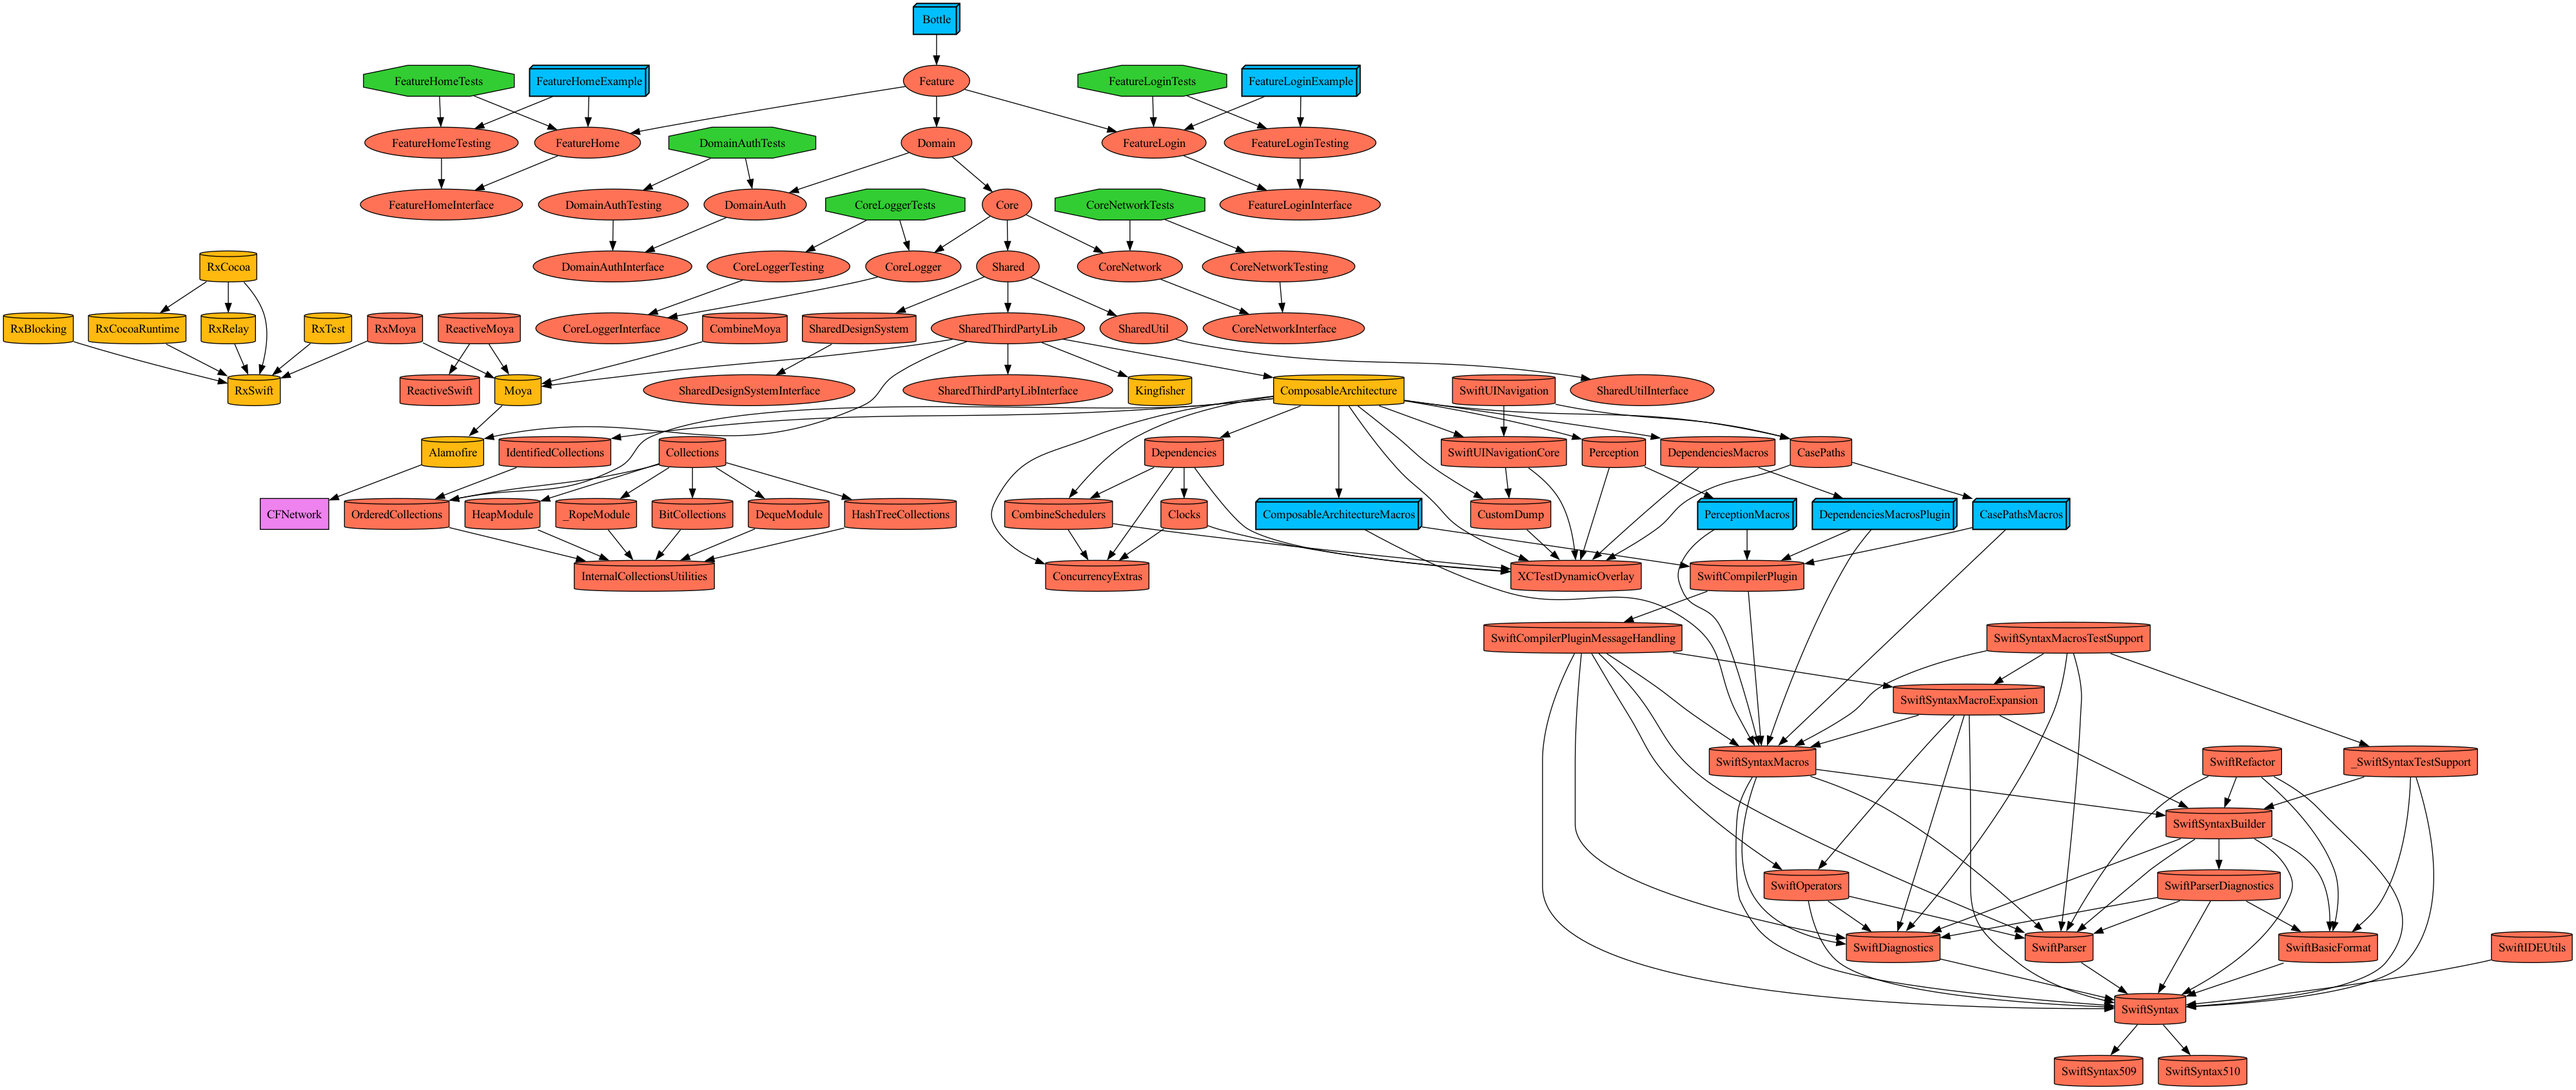
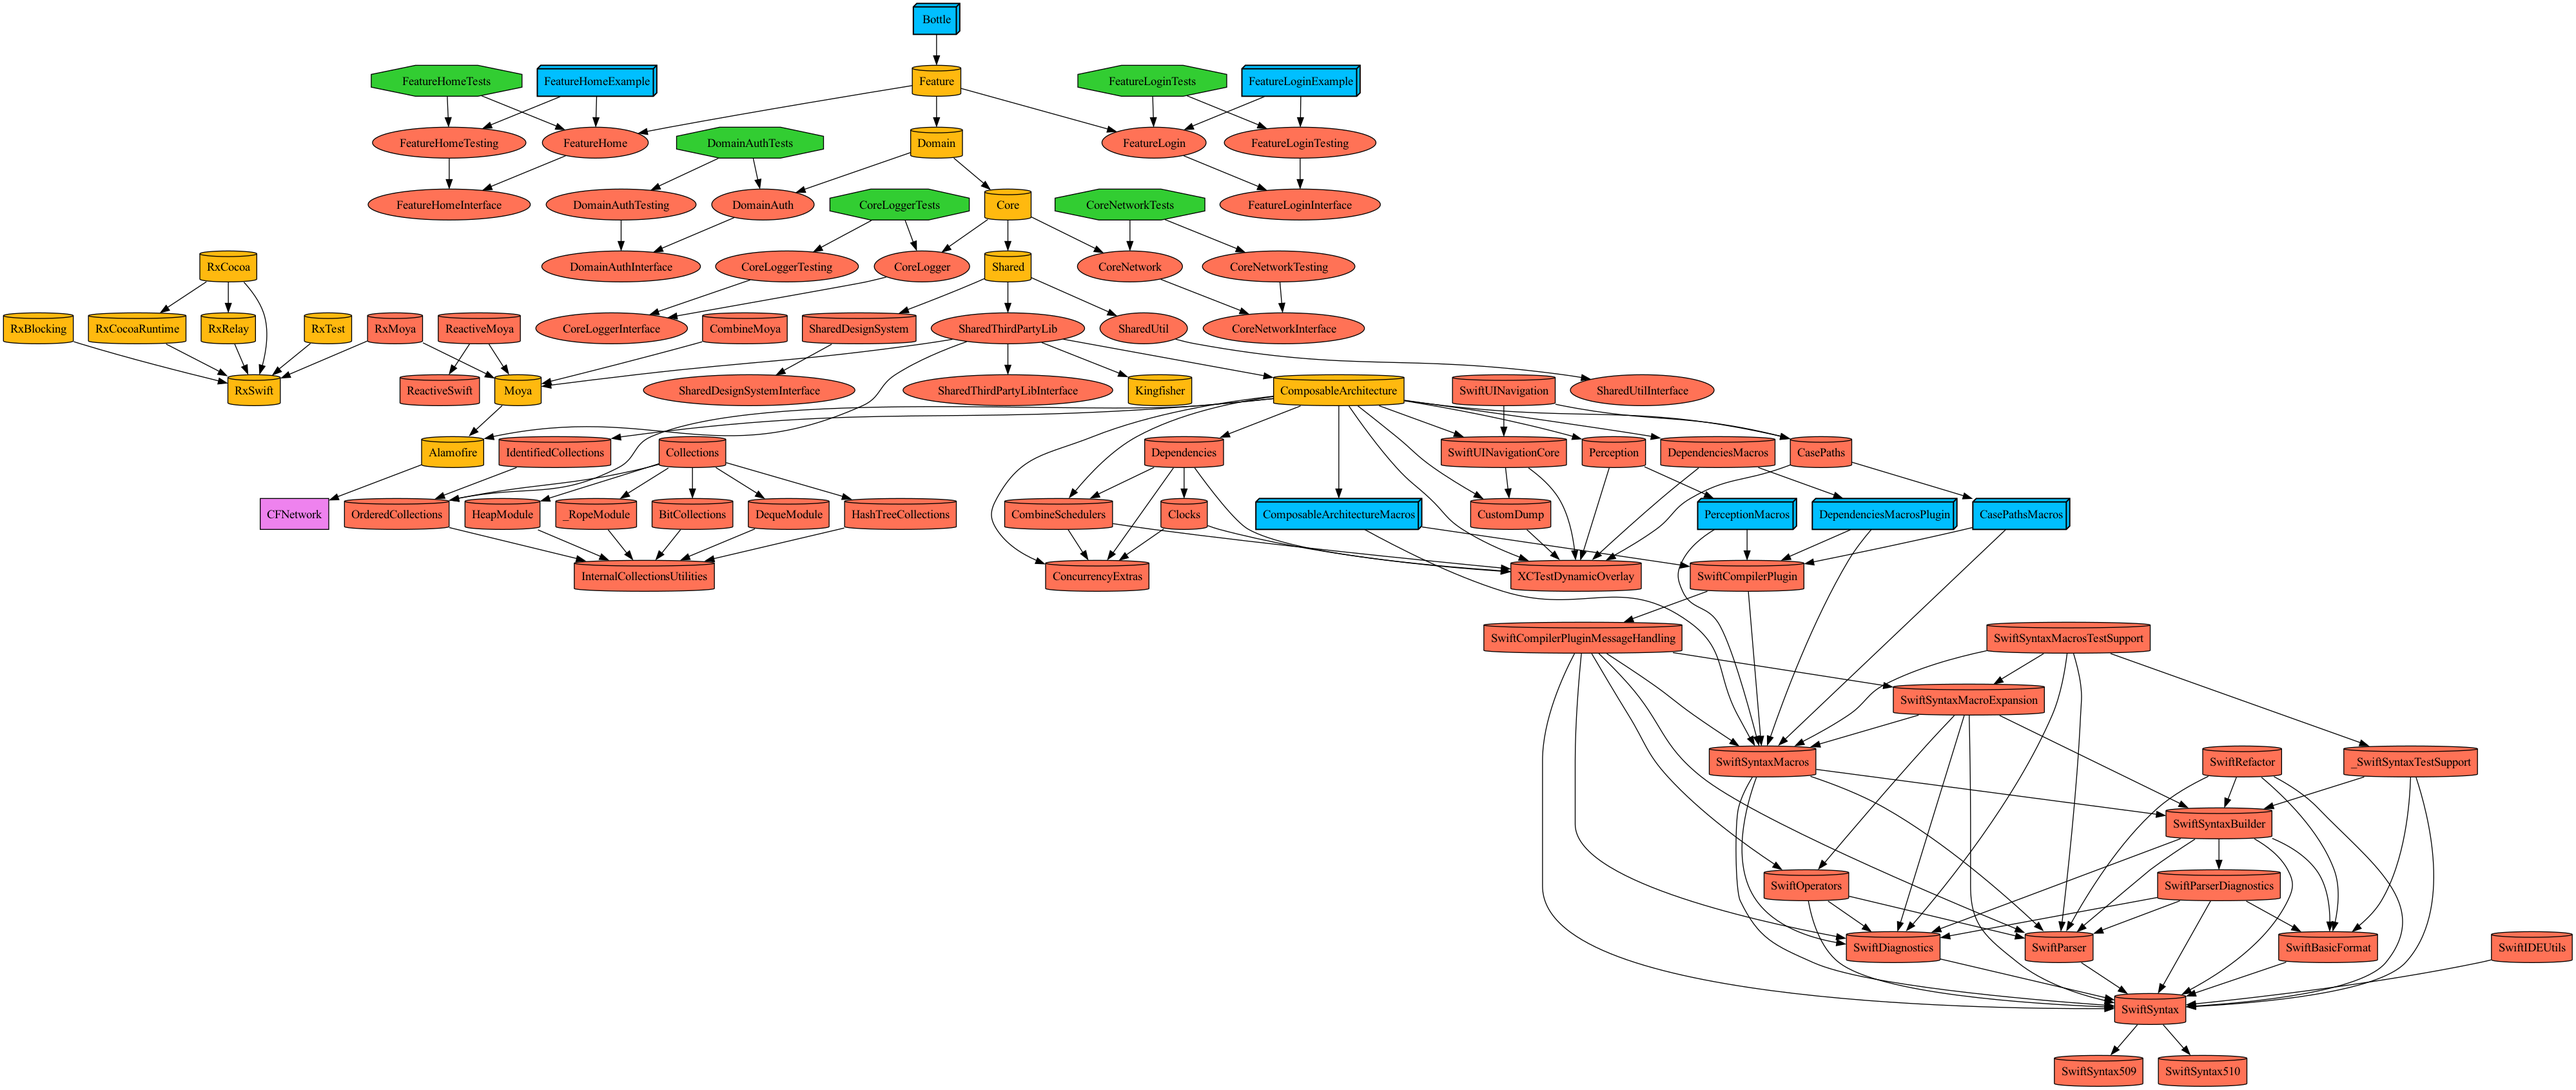
feat: Layer 모듈 타겟 framework로 수정

Changed region(s): [[0.1241, 0.0615, 0.4034, 0.2768], [0.3413, 0.0615, 0.3724, 0.1538]]

diff --git a/Tuist/ProjectDescriptionHelpers/Target+Templates.swift b/Tuist/ProjectDescriptionHelpers/Target+Templates.swift
@@ -42,7 +42,7 @@ public struct TargetFactory {
         productName: String? = nil,
         bundleId: String? = nil,
         deploymentTargets: DeploymentTargets? = nil,
-        infoPlist: InfoPlist? = nil,
+        infoPlist: InfoPlist? = .default,
         sources: SourceFilesList? = .sources,
         resources: ResourceFileElements? = nil,
         copyFiles: [CopyFilesAction]? = nil,

diff --git a/Projects/App/Project.swift b/Projects/App/Project.swift
@@ -3,6 +3,7 @@ import ProjectDescriptionHelpers
 
 let targets: [Target] = [
     .app(implements: .iOS, factory: .init(
+        product: .framework,
         infoPlist: .extendingDefault(
             with: [
                 "UILaunchScreen": [

diff --git a/Projects/Shared/Project.swift b/Projects/Shared/Project.swift
@@ -11,6 +11,7 @@ import DependencyPlugin
 
 let targets: [Target] = [
     .shared(factory: .init(
+        product: .framework,
         sources: nil,
         dependencies: ModulePath.Shared.allCases.map {
             .shared(implements: $0)

diff --git a/Projects/Feature/Project.swift b/Projects/Feature/Project.swift
@@ -11,6 +11,7 @@ import DependencyPlugin
 
 let targets: [Target] = [
     .feature(factory: .init(
+        product: .framework,
         sources: nil,
         dependencies: [
             .domain

diff --git a/Projects/Core/Project.swift b/Projects/Core/Project.swift
@@ -11,6 +11,7 @@ import DependencyPlugin
 
 let targets: [Target] = [
     .core(factory: .init(
+        product: .framework,
         sources: nil,
         dependencies: [
             .shared

diff --git a/Projects/Domain/Project.swift b/Projects/Domain/Project.swift
@@ -11,6 +11,7 @@ import DependencyPlugin
 
 let targets: [Target] = [
     .domain(factory: .init(
+        product: .framework,
         sources: nil,
         dependencies: [
             .core
